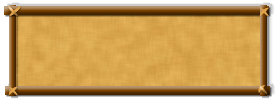
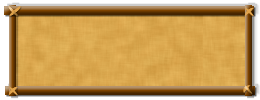
Make player boards fit on ipad screen

Changed region(s): [[0.0, 0.06, 0.0923, 0.96], [0.9231, 0.06, 0.9846, 0.96]]

diff --git a/css/style.css b/css/style.css
@@ -142,7 +142,7 @@ body {
   position: absolute;
   background-image: url(images/playerboard.png);
   bottom: 0px;
-  width: 240px;
+  width: 225px;
   padding: 17px;
   -webkit-transition: all .3s;
 }
@@ -151,9 +151,9 @@ body {
 }
 
 .player-board.player1 { left: 0px; }
-.player-board.player2 { left: 270px; }
-.player-board.player3 { left: 540px; }
-.player-board.player4 { left: 810px; }
+.player-board.player2 { left: 255px; }
+.player-board.player3 { left: 510px; }
+.player-board.player4 { left: 765px; }
 
 .counter {
   display: inline-block;
@@ -166,7 +166,7 @@ body {
 
 .counter.worker-pile {
   background-size: contain;
-  padding-left: 30px;
+  padding-left: 25px;
 }
 .player1 .counter.worker-pile { background-image: url(images/red_meeple.png); }
 .player2 .counter.worker-pile { background-image: url(images/green_meeple.png); }
